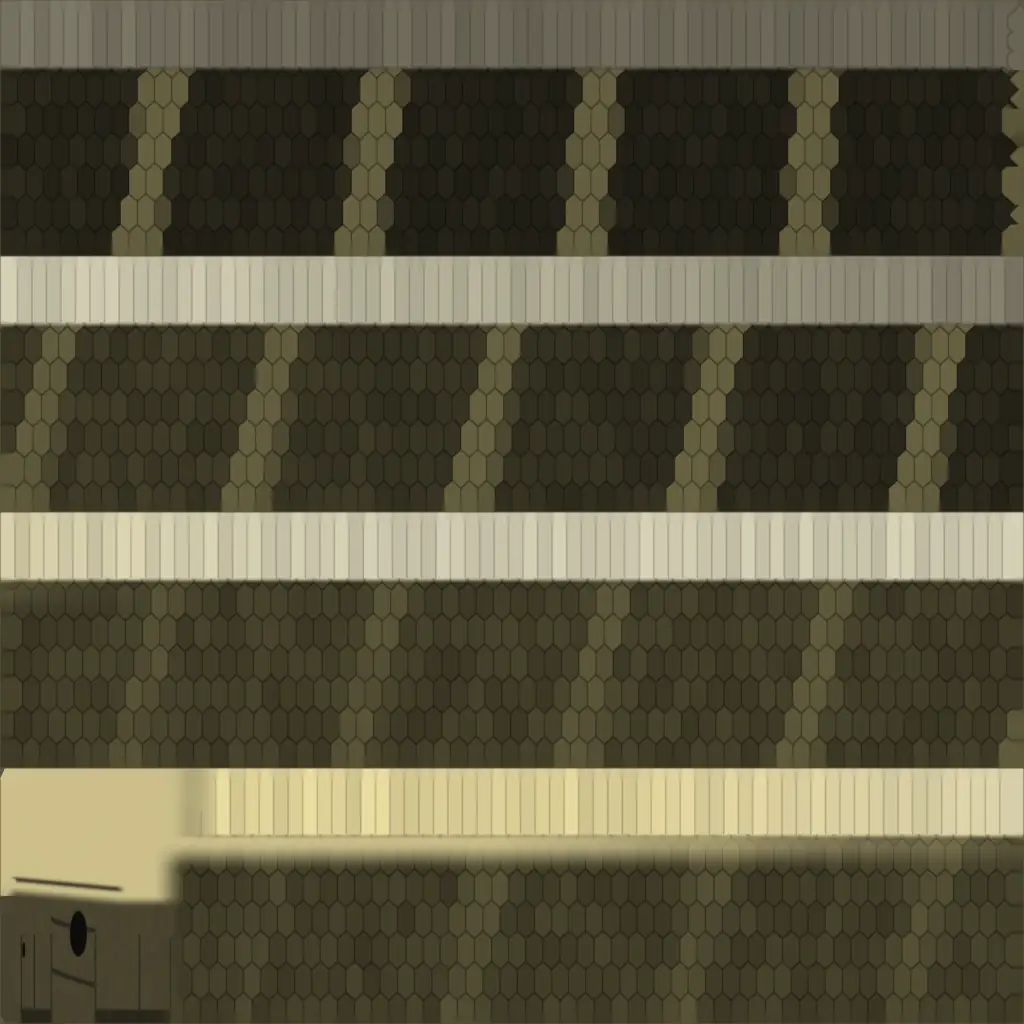
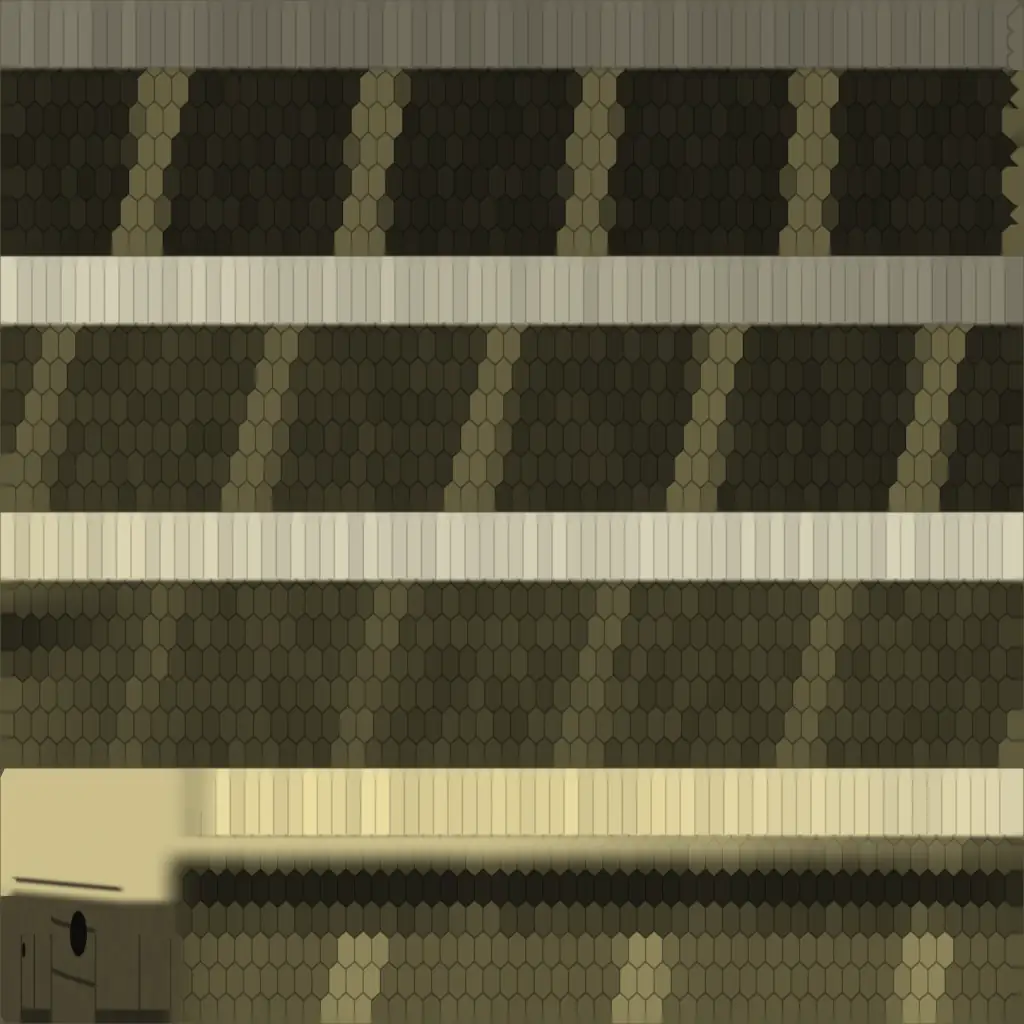
Round 17: the king cobra's hood reads (wider and longer, cupped flap bones, a pale back with dark edges), it rears higher, the camera looks up at it
Claude-Session: https://claude.ai/code/session_0178i5uP1kqJaH7MisS9wMjZ

Changed region(s): [[0.1875, 0.8438, 1.0, 1.0], [0.0, 0.5938, 0.0312, 0.6562]]

diff --git a/game/src/40_animals.js b/game/src/40_animals.js
@@ -3153,6 +3153,9 @@ void RE_Direct_AA(const in IncidentLight directLight, const in GeometricContext 
     const tip = 0.48 * L, z0 = tip - 0.052 * kH, dz = (0.94 * L - 0.052 * kH) / (N - 1), tailZ = tip - L;
     const bones = [['head', null, 0, R, z0 + 0.012 * kH]], names = [];
     for (let i = 0; i < N; i++) { bones.push(['s' + i, null, 0, R, z0 - i * dz]); names.push('s' + i); }
+    // the cobra's hood flaps (o.anim.hood): a bone each side on each hood bone, in its place, that the sides of the neck
+    // ride on (tools/blender/kingcobra.py), so they can curve forward as the hood spreads
+    for (const [i] of (o.anim && o.anim.hood) || []) bones.push(['hood' + i + 'L', 's' + i, 0, R, z0 - i * dz, 1]);
     const keys = [];
     for (let k = 0; k <= 24; k++) {
       const u = k / 24, z = lerp(z0 + 0.005 * kH, tailZ, u), r = Math.max(R * o.rad(u), 0.002);
@@ -3219,7 +3222,9 @@ void RE_Direct_AA(const in IncidentLight directLight, const in GeometricContext 
       else cmix(C, hex(0xE8E2B0), sstep(-0.2, -0.6, P.ny) * 0.8);
     },
     eye: { iris: 0x4A3418, pupil: 'round', pupilR: 0.42 },
-    anim: { walk: 1.0, run: 3.4, floatDepth: 0.03, rear: [0.34, 0.11], hood: [[0, 1.35], [1, 2.1], [2, 1.55], [3, 1.1]] },
+    // (the hood: a long flat oval from just behind the head down about 9 head lengths, about 2.4 times the body wide
+    // at its widest; reared, the head is about 1.15 m up)
+    anim: { walk: 1.0, run: 3.4, floatDepth: 0.03, rear: [0.38, 0.08], hood: [[0, 1.8], [1, 2.6], [2, 2.75], [3, 2.55], [4, 2.1], [5, 1.55], [6, 1.12]], hoodCup: 0.1 },
     iconSt: { happy: 1 }, iconDir: [0.8, 0.25, 0.55], iconN: 12,
   });
   // The western diamondback rattlesnake: 1.4 m and heavy, a broad triangular head on a thin neck, gray-brown with dark
@@ -9876,7 +9881,8 @@ void RE_Direct_AA(const in IncidentLight directLight, const in GeometricContext 
     const bx = xs[iB], bz = zs[iB];
     // the way the body runs at the base (forward), so it curls up in line with it
     let fx = xs[iB - 1] - xs[Math.min(N, iB + 1)], fz = zs[iB - 1] - zs[Math.min(N, iB + 1)];
-    const fl = Math.hypot(fx, fz) || 1; fx /= fl; fz /= fl;
+    // (mostly straight ahead, the way the snake faces, so the hood faces what is in front of it and the camera behind it)
+    let fl = Math.hypot(fx, fz) || 1; fx = 0.3 * fx / fl; fz = 0.3 * fz / fl + 0.7; fl = Math.hypot(fx, fz) || 1; fx /= fl; fz /= fl;
     for (let i = 0; i < iB; i++) {
       const u = sR - i * dz;   // distance up from the base along the body
       let up, fwd;
@@ -10004,6 +10010,8 @@ void RE_Direct_AA(const in IncidentLight directLight, const in GeometricContext 
         S.sway += dt * (1.3 + 0.3 * Math.sin(it * 0.37));
         const rr = sstep(0, 1, S.rear);
         if (rr > 0.001) pitchUp = P.rear ? snakeRear(P, S, rr, xs, ys, zs, N, dz, y0) : snakeRattle(P, S, rr, xs, ys, zs, cx, cz, N, dz, y0, t);
+        // how far the head is up off the ground (rig units): the game's camera looks up at it (70_game followCamera)
+        if (R.rig) R.rig.raise = Math.max(0, ys[0] - y0) * rr;
       }
       // the body origin should stay near root origin: shift so the middle sits on z ~ 0 (rest layout is already centered)
       for (let i = 0; i < N; i++) {
@@ -10015,7 +10023,15 @@ void RE_Direct_AA(const in IncidentLight directLight, const in GeometricContext 
       }
       // round 17: the cobra's hood (P.hood: [bone index, width]): the bones under it widen across and flatten a little
       // as it rears
-      if (P.hood) { const hr = sstep(0.35, 0.9, S.rear); for (const [i, kx] of P.hood) segs[i].scale.set(1 + (kx - 1) * hr, 1 - 0.25 * hr * (kx - 1) / (hoodMax - 1), 1); }
+      if (P.hood) {
+        const hr = sstep(0.35, 0.9, S.rear);
+        for (const [i, kx] of P.hood) {
+          const f = (kx - 1) / (hoodMax - 1);
+          segs[i].scale.set(1 + (kx - 1) * hr, 1 - 0.35 * hr * f, 1);
+          // the flaps curve forward (toward the throat), so the hood is cupped and shows from the side too
+          for (const sd of 'LR') { const hb = B['hood' + i + sd]; if (hb) hb.position.set(0, -(P.hoodCup || 0) * hr * f, 0); }
+        }
+      }
       // head follows the first segment, with look and eat pitch
       _v1.set(xs[0] - xs[1], 0, zs[0] - zs[1]).normalize();
       const yaw = Math.atan2(_v1.x, _v1.z) * lerp(0.6, 1, sl) + S.look * (1 - S.rear * 0.6);

diff --git a/game/src/70_game.js b/game/src/70_game.js
@@ -96,7 +96,9 @@ function followCamera(dt) {
   const base = clamp(m.length * 1.35 + m.height * 1.5 + (tiny ? 0.5 : 0.75) * clamp(m.length / 0.15, tiny ? 0.3 : 0.55, 1), tiny ? 0.2 : 0.6, Math.max(8.5, m.height * 2.4));
   // (round 11: a species can ask for a closer camera, camNear, like the leopard gecko, which is long but very flat)
   let dist = base * (SPECIES[b.form || b.sp]?.camNear || 1) * Cam.zoom;
-  const ty = b.pos.y + (b.mode === 'climb' ? m.length * 0.4 : m.eye * 0.8) + (tiny ? 0.015 : 0.05);
+  if (b.rig.raise) dist *= 1 - 0.25 * clamp(b.rig.raise, 0, 1);   // (round 17: a reared-up king cobra: a little closer)
+  // (round 17: a reared-up king cobra or a coiled rattlesnake, rig.raise: the camera looks up at its head)
+  const ty = b.pos.y + (b.mode === 'climb' ? m.length * 0.4 : m.eye * 0.8) + (tiny ? 0.015 : 0.05) + (b.rig.raise ? b.rig.raise * b.k * 0.6 : 0);
   if (Cam.snap) { Cam.target.set(b.pos.x, ty, b.pos.z); Cam.yaw = b.yaw; Cam.snap = false; }
   // when a person is talking to us, pull back so both fit on screen
   let fx0 = b.pos.x, fz0 = b.pos.z, fy0 = ty, minD = 0;

diff --git a/tools/blender/kingcobra.py b/tools/blender/kingcobra.py
@@ -57,6 +57,25 @@ def _head_seams(s, th):
 
 M._head_seams = _head_seams
 SK.make(globals(), M, KS, eye_dir=(0.86, 0.32, 0.42))
+_fix0 = fix_weights
+
+
+def fix_weights(W, wpos, names, G, weld):
+    """the hood's flaps: the sides of the neck on each hood bone ride on its flap bone (hood<i>L / R, in the same place),
+    most at the outer edge of the hood and none on the back and the throat, so the game can curve them forward"""
+    W = _fix0(W, wpos, names, G, weld)
+    bi = {n: i for i, n in enumerate(names)}
+    s, th = M.tube_coords((wpos / KS).astype(F))
+    g = (np.sin(th) ** 3).astype(F) * sstep(0.03, 0.05, s)
+    for i in range(7):
+        for sd, side in (('L', wpos[:, 0] > 0), ('R', wpos[:, 0] < 0)):
+            h = bi.get(f'hood{i}{sd}')
+            if h is None:
+                continue
+            mv = W[:, bi[f's{i}']] * g * side
+            W[:, bi[f's{i}']] -= mv
+            W[:, h] += mv
+    return W
 K = {k: SK.hexc(v) for k, v in dict(olive=0x403C28, oliveLt=0x5A5438, dark=0x1A1812, band=0x8C8458, throat=0xE2D49A, belly=0xCFCAB0,
                                    bellyDk=0x5A5648, head=0x4A4430, gap=0x0E0D0A, skin=0xBDB698, hatch=0x121214, hband=0xEAE4B4).items()}
 
@@ -80,6 +99,13 @@ def paint(P, N, c):
     col *= (0.88 + 0.22 * jit)[:, None]
     band = sstep(0.72, 0.9, np.cos(2 * np.pi * b)) * sstep(0.07, 0.12, s) * (0.22 + 0.4 * sstep(0.25, 0.75, u))
     col = SK.mix(col, K['band'], band * (1 - bel))
+    # the hood (spread in the game): its back a lighter olive with two clear pale chevrons, its edges dark, so the
+    # spread hood's outline shows from behind and from in front
+    hood = sstep(0.05, 0.08, s) * sstep(0.44, 0.36, s)
+    col = SK.mix(col, K['oliveLt'] * 1.15, hood * sstep(1.25, 0.9, CT) * 0.7)
+    hb = (CS - 0.45 * np.abs(CT) * M.sect(CS)[2] - 0.13) / 0.11
+    col = SK.mix(col, K['band'] * 1.1, sstep(0.8, 0.92, np.cos(2 * np.pi * hb)) * hood * sstep(1.3, 1.0, CT) * 0.75 * (1 - bel))
+    col = SK.mix(col, K['dark'], hood * sstep(1.25, 1.45, CT) * sstep(1.95, 1.75, CT) * 0.85)
     # the skin between the scales: dark lines
     col = col * (0.62 + 0.38 * sstep(0.0, 0.12, E))[:, None] * (1 - head[:, None]) + col * head[:, None]
     # belly: cream yellow under the chin and throat, grayer further back, dark under the tail
